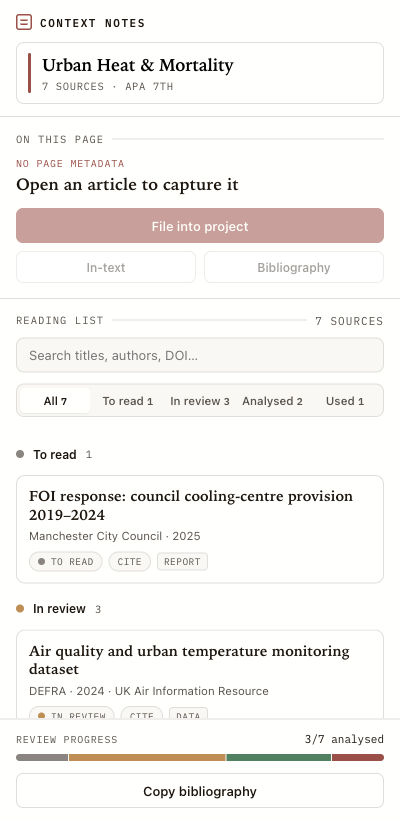
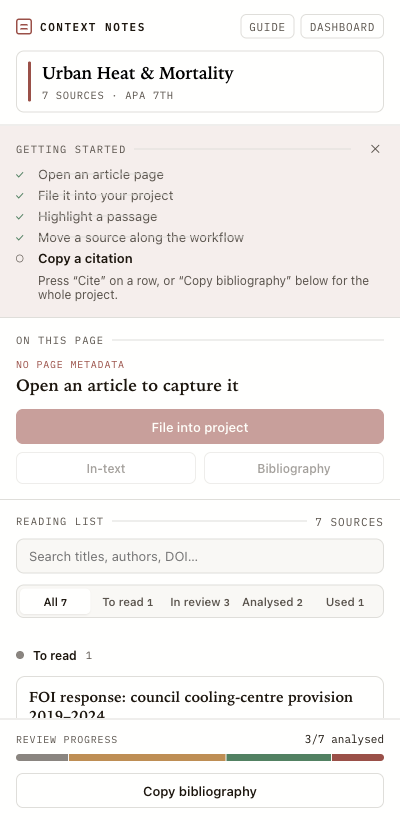
chore(release): v1.2.0 — the onboarding release
STATUS.md records the release; screenshots are retaken from the v1.2.0
build (the side panel now shows the getting-started checklist and the
Guide/Dashboard header buttons); the validated store package is
release/context-notes-v1.2.0.zip (48 files, 0 warnings).

diff --git a/doc/STATUS.md b/doc/STATUS.md
@@ -1,6 +1,6 @@
 # Project Status & Resume Plan
 
-_Last updated: 2026-08-04 — **v1.1.0, the metadata release — the build to submit to the Chrome
+_Last updated: 2026-08-04 — **v1.2.0, the onboarding release — the build to submit to the Chrome
 Web Store**; **all five roadmap phases delivered**; **polish list complete**;
 **v0.27.0 web-page text annotation shipped** (the one capability the audit had deferred); **v0.27.1
 network/annotator hardening pass**; **v0.27.2 web annotations survive SPA navigation**; **v0.27.3
@@ -15,9 +15,10 @@ cases A2–A8 all closed)**; **v0.28.0 Chrome Web Store distribution packaging**
 out of scope by an explicit decision, and the UI shows it as unavailable rather than pretending.
 
 - **Repo:** https://github.com/AmigoUK/Research-Chrome-Extension
-- **Branch state:** everything through **v1.1.0 is on `main`** (Phases 1–5 + polish + hardening +
-  web-page annotation + Web Store packaging + the metadata release). No unmerged work.
-- **Releases:** v1.1.0 the metadata release (see below); v1.0.1 failed-highlight toolbar fix;
+- **Branch state:** everything through **v1.2.0 is on `main`** (Phases 1–5 + polish + hardening +
+  web-page annotation + Web Store packaging + the metadata and onboarding releases). No unmerged
+  work.
+- **Releases:** v1.2.0 the onboarding release (see below); v1.1.0 the metadata release (see below); v1.0.1 failed-highlight toolbar fix;
   v1.0.0 ready for the Chrome Web Store;
   v0.28.0 Chrome Web Store distribution packaging; v0.27.6 honest denied-opt-in
   feedback; v0.27.5 no dead "Jump to" on an unplaced note;
@@ -28,8 +29,20 @@ out of scope by an explicit decision, and the UI shows it as unavailable rather 
   → v0.14.0 Phase 4; v0.8.0 → v0.12.0 Phase 3; v0.2.0 → v0.7.0 Phase 2; v0.0.1 → v0.1.1 Phase 1.
 - **CI:** GitHub Actions — typecheck → lint → format:check → unit → build, plus an E2E job
   (Playwright under xvfb).
-- **Tests:** 359 unit + 28 E2E (5 PDF viewer + 16 dashboard + 3 side panel + 4 web annotation),
-  all green.
+- **Tests:** 363 unit + 31 E2E (5 PDF viewer + 16 dashboard + 3 side panel + 4 web annotation +
+  3 onboarding), all green.
+
+### v1.2.0 — the onboarding release (2026-08-04)
+
+The workflow now teaches itself. A five-step **guide page** opens once on first install (never on
+updates) and stays reachable from the panel's Guide button, the dashboard footer and the
+empty-Overview callout; its buttons open the side panel, the dashboard and Chrome's Site access
+settings directly. The side panel gains a **getting-started checklist** — the same five steps
+checked off from real project data, with a one-line hint on the current step, dismissable and
+self-retiring — plus **journey nudges**: each completed action suggests the natural next one
+(filed → annotate, first highlight → set a status, status moved → cite, first citation →
+bibliography/sync), once per session and never after the checklist was dismissed. The panel header
+finally links the **Dashboard**, which was previously unreachable from the panel.
 
 ### v1.1.0 — the metadata release (2026-08-04)
 

diff --git a/README.md b/README.md
@@ -4,16 +4,20 @@ A Chrome (Manifest V3) research companion: contextual annotations on web pages *
 project-based organisation of sources, citations and bibliographies via real CSL, a rule-driven
 citation-style editor, and local-first collaboration.
 
-> **Status:** **all five roadmap phases delivered.** Current release: **v1.1.0** — the build to
+> **Status:** **all five roadmap phases delivered.** Current release: **v1.2.0** — the build to
 > submit to the Chrome Web Store. See [`CHANGELOG.md`](CHANGELOG.md) and
 > [`doc/STATUS.md`](doc/STATUS.md).
 
 ## Quick start
 
+A built-in **guide opens on first install** (and stays behind the panel's **Guide** button), and a
+**getting-started checklist** in the side panel checks the steps below off as you actually do them
+— each completed action suggests the natural next one.
+
 1. **Install**: from the Chrome Web Store, or unpacked — `npm ci && npm run build`, then
    `chrome://extensions` → Developer mode → _Load unpacked_ → the `dist/` folder.
 2. **Open the side panel** with the toolbar icon. A default project ("My Research") is created for
-   you; the header switches or creates projects.
+   you; the header switches projects, and its **Dashboard** button opens the full workspace.
 3. **File a source**: open the **article page itself** (not a search-results page — the panel will
    tell you if you try) and press **File into project**. If the page carries a DOI, the record is
    auto-completed from the DOI registry: structured authors, year, journal, volume, issue, pages.

diff --git a/CHANGELOG.md b/CHANGELOG.md
@@ -9,6 +9,29 @@ and this project adheres to [Semantic Versioning](https://semver.org/spec/v2.0.0
 
 _Nothing yet._
 
+## [1.2.0] — 2026-08-04
+
+The onboarding release: the workflow now teaches itself.
+
+### Added
+
+- **First-run guide** — a five-step tour (file → highlight → PDFs → track →
+  cite, plus sharing) that opens once on install and stays reachable from the
+  panel's Guide button, the dashboard footer, and the empty-Overview callout.
+  Its buttons open the side panel, the dashboard, and Chrome's Site access
+  settings directly.
+- **Getting-started checklist** in the side panel — the same five steps,
+  checked off from real project data as you do them, with a one-line hint on
+  the current step. Dismissable; disappears for good once complete.
+- **Journey nudges** — after each action the panel suggests the natural next
+  one: filed → annotate, first highlight → set a status, status moved → cite,
+  first citation → bibliography/sync. Once per session, never after the
+  checklist is dismissed.
+- **Guide and Dashboard buttons** in the panel header — the dashboard was
+  previously unreachable from the panel at all.
+- An empty dashboard Overview now points back to the side panel, Add PDF and
+  the guide instead of showing bare columns.
+
 ## [1.1.0] — 2026-08-04
 
 The metadata release, driven by a live audit against Google Scholar and real
